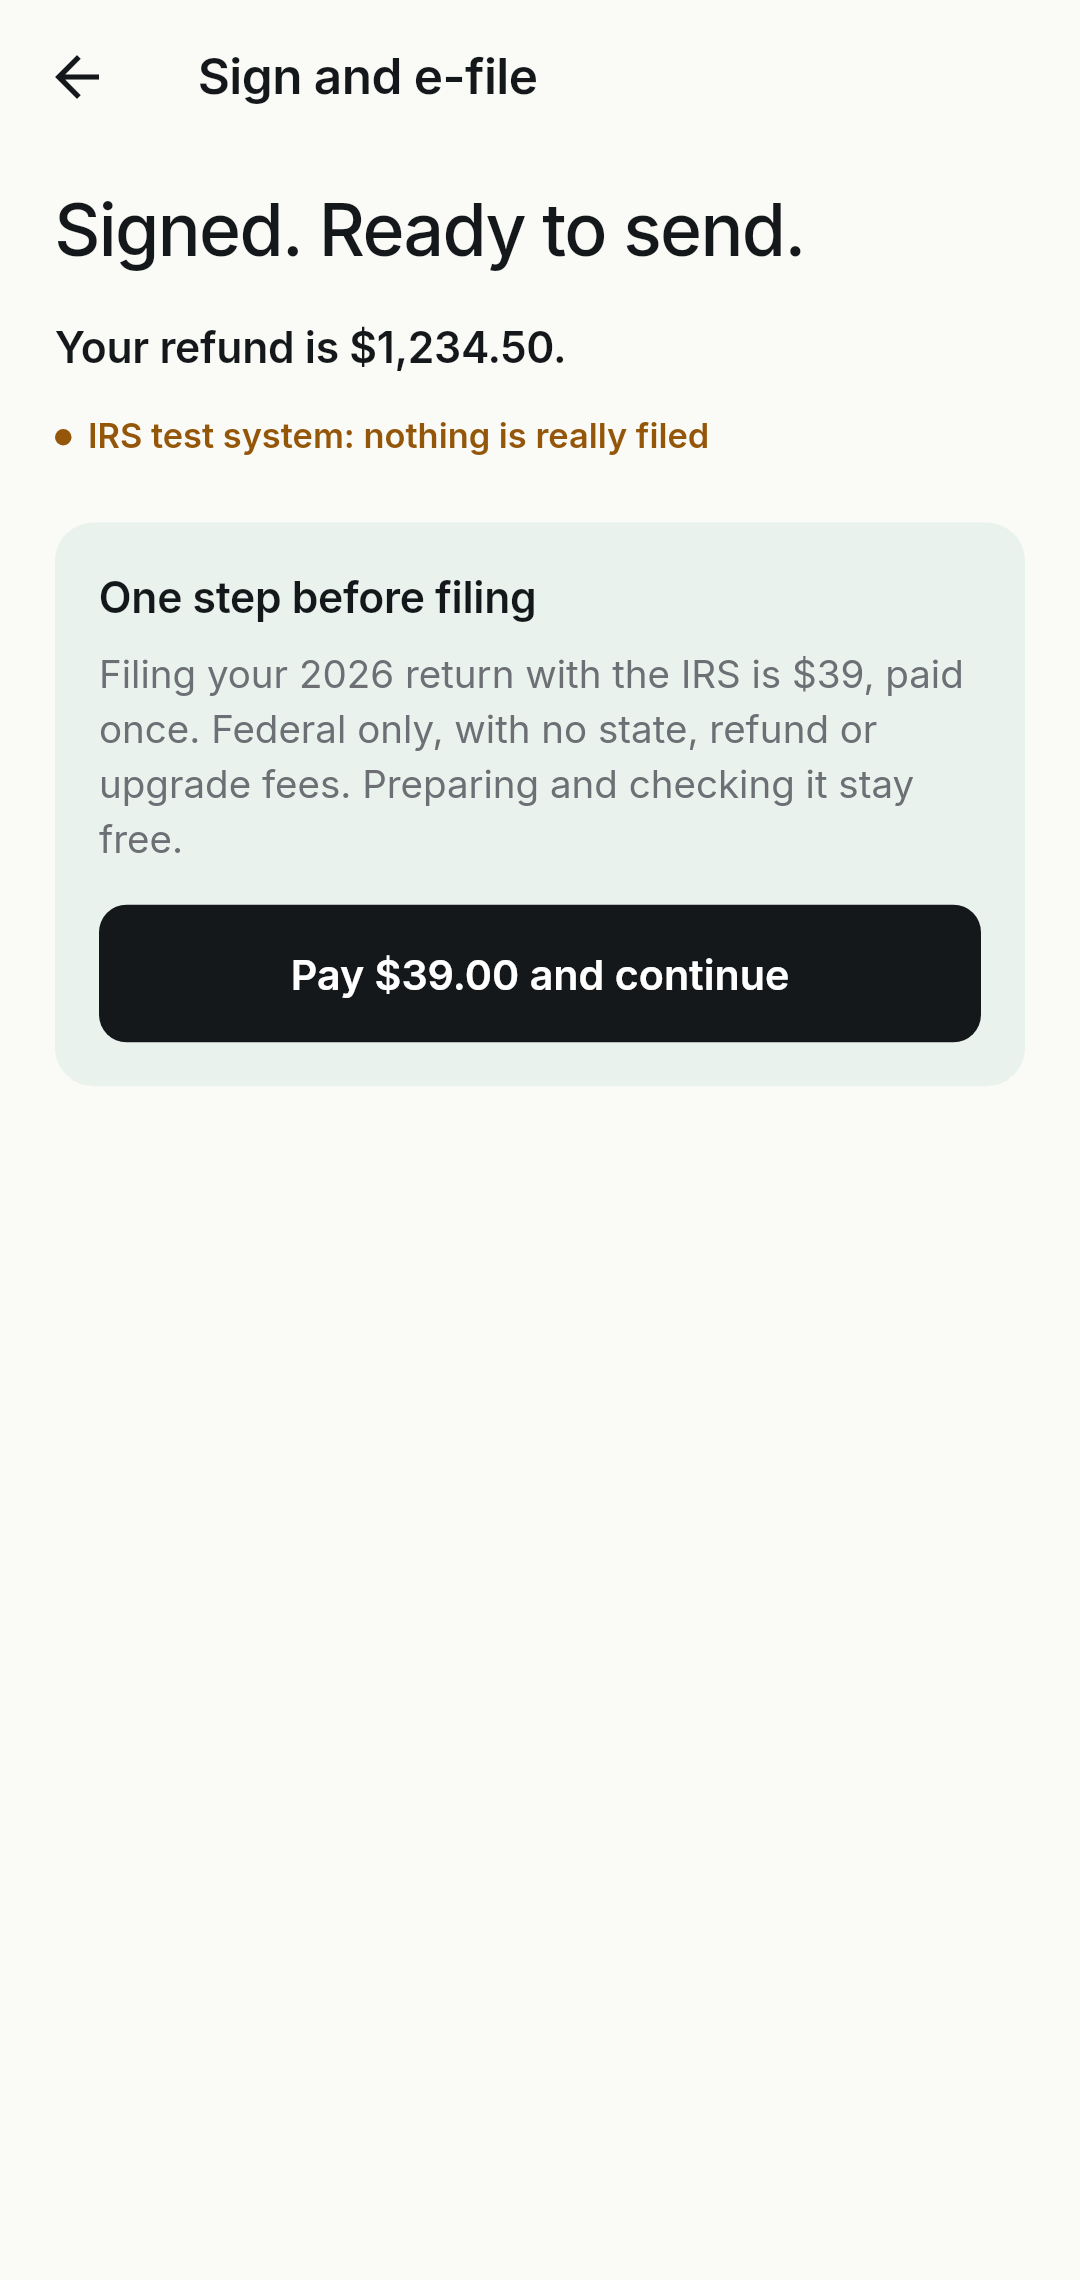
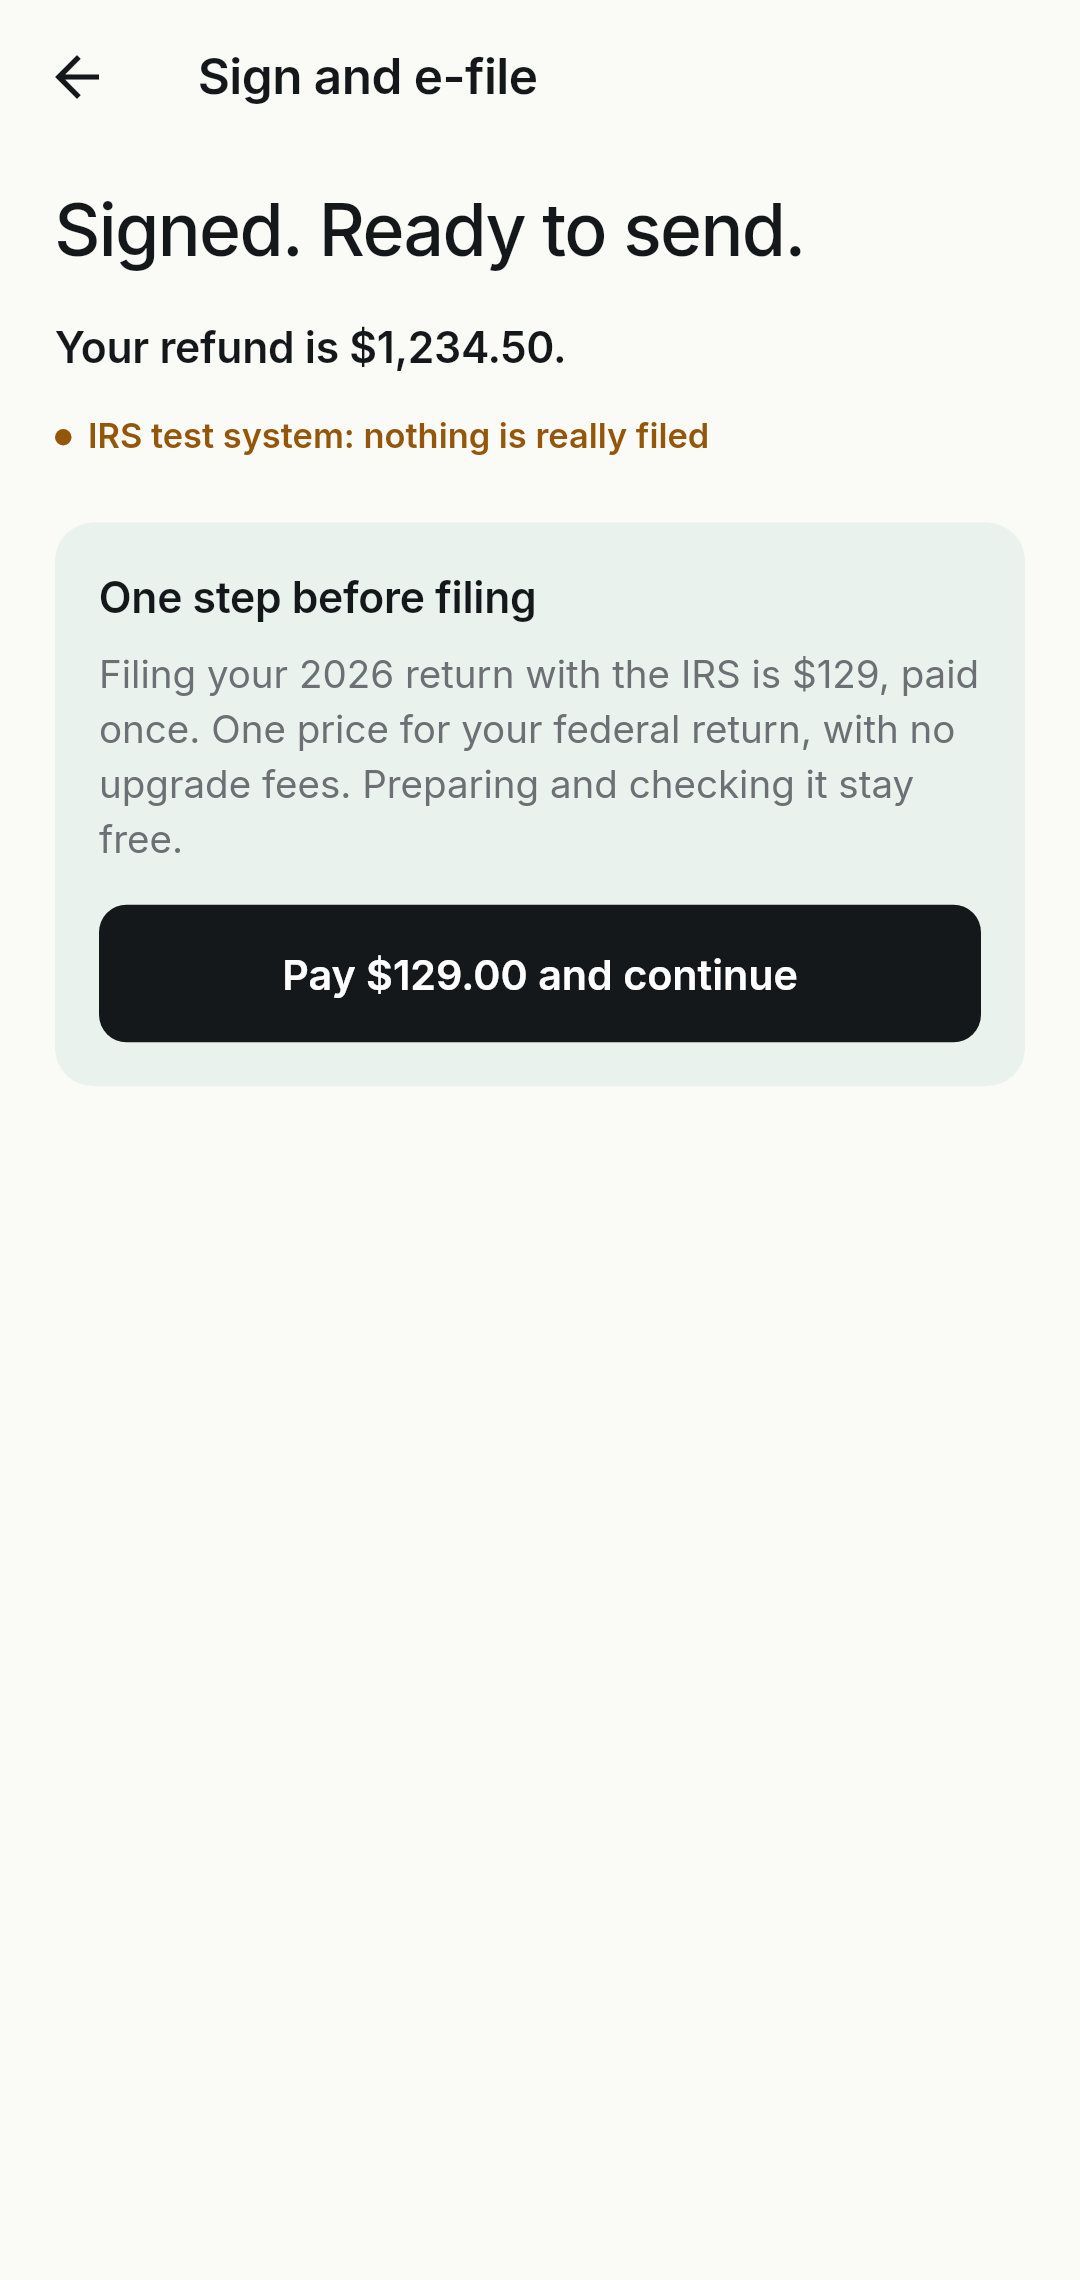
Price the US SKU as premium: $129 return, $249 a year Plus, $299 Expert Review
The owner asked for prices worth a service that beats every competitor.
The defaults now sit at or above TurboTax at each tier (Premium, Live
Assisted). Each price is still a setting. The price line drops the
state and refund wording and says one price, no upgrade fees.

Tests: cloud us-card-checkout and us-return-billing 16/16 pass;
mobile us_plus_test and us_return_test 28/28 pass; US goldens updated;
dart analyze clean on the changed files.

Claude-Session: https://claude.ai/code/session_0174TLetaQdj8mae1wPsVW7h

Changed region(s): [[0.2139, 0.2803, 0.9167, 0.3425], [0.2444, 0.4048, 0.7333, 0.436]]

diff --git a/mobile/test/us_return_test.dart b/mobile/test/us_return_test.dart
@@ -31,7 +31,7 @@ class FeeStore implements StoreBilling {
   @override
   Future<bool> available() async => true;
   @override
-  Future<Map<String, StoreProduct>> products(Set<String> ids) async => {for (final id in ids) id: StoreProduct(id: id, price: '\$39.00')};
+  Future<Map<String, StoreProduct>> products(Set<String> ids) async => {for (final id in ids) id: StoreProduct(id: id, price: '\$129.00')};
   @override
   Future<bool> buy(String productId, String accountId) async {
     bought.add('sub:$productId:$accountId');
@@ -60,7 +60,7 @@ class FakeFees implements UsFilingFees {
   @override
   String get accountId => 'biz-1';
   @override
-  Future<UsFilingFee> status(int taxYear) async => UsFilingFee(taxYear: taxYear, enforced: true, paid: paid, priceUsd: 39, productId: 'myca_us_1040', checkout: card ? 'card' : 'play');
+  Future<UsFilingFee> status(int taxYear) async => UsFilingFee(taxYear: taxYear, enforced: true, paid: paid, priceUsd: 129, productId: 'myca_us_1040', checkout: card ? 'card' : 'play');
   @override
   Future<UsFilingFee> record(int taxYear, String productId, String purchaseToken) async {
     recorded.add('$taxYear:$productId:$purchaseToken');
@@ -591,7 +591,7 @@ void main() {
     expect(find.textContaining('00000020253150000001'), findsOneWidget);
   });
 
-  testWidgets('filing is held until that year\'s \$39 is paid on Google Play; then the file button appears', (tester) async {
+  testWidgets('filing is held until that year\'s \$129 is paid on Google Play; then the file button appears', (tester) async {
     final api = UsFakeApi()..taxpayer = {'filingStatus': 'single'};
     api.forms.add({'id': 'F1', 'kind': 'W-2', 'payer': 'Acme', 'amounts': {'wages': 52000}});
     api.efile = 'signed';
@@ -603,7 +603,7 @@ void main() {
     tester.state<NavigatorState>(find.byType(Navigator).first).push(MaterialPageRoute<void>(builder: (_) => UsSignScreen(taxYear: year, fees: fees, store: store)));
     await tester.pumpAndSettle();
     expect(find.byKey(const Key('usFee.card')), findsOneWidget);
-    expect(find.textContaining('is \$39, paid once'), findsOneWidget);
+    expect(find.textContaining('is \$129, paid once'), findsOneWidget);
     expect(find.byKey(const Key('usSign.prepare')), findsNothing, reason: 'no filing before the fee');
     await tester.tap(find.byKey(const Key('usFee.pay')));
     await tester.pumpAndSettle();
@@ -622,10 +622,10 @@ void main() {
   });
 
   test('the filing fee reads from the server and is never due when billing is off', () {
-    final due = UsFilingFee.fromJson({'taxYear': 2025, 'enforced': true, 'paid': false, 'priceUsd': 39, 'productId': 'myca_us_1040'}, 2025);
+    final due = UsFilingFee.fromJson({'taxYear': 2025, 'enforced': true, 'paid': false, 'priceUsd': 129, 'productId': 'myca_us_1040'}, 2025);
     expect(due.due, isTrue);
-    expect(usFilingFeeLine(due), 'Filing your 2025 return with the IRS is \$39, paid once. Federal only, with no state, refund or upgrade fees. Preparing and checking it stay free.');
-    expect(due.line, '\$39 to file. Federal only. No state, refund or upgrade fees.');
+    expect(usFilingFeeLine(due), 'Filing your 2025 return with the IRS is \$129, paid once. One price for your federal return, with no upgrade fees. Preparing and checking it stay free.');
+    expect(due.line, '\$129 to file your federal return. One price, no upgrade fees.');
     expect(UsFilingFee.fromJson({'checkout': 'card'}, 2025).byCard, isTrue);
     expect(UsFilingFee.fromJson({'enforced': false, 'paid': true}, 2025).due, isFalse);
     expect(UsFilingFee.fromJson({'enforced': true, 'paid': true}, 2025).due, isFalse);

diff --git a/mobile/test/us_plus_test.dart b/mobile/test/us_plus_test.dart
@@ -44,7 +44,7 @@ class FakePlus implements UsPlusService {
         subscribed: subscribed,
         renews: subscribed && renews,
         until: '2027-11-11T00:00:00.000Z',
-        priceUsd: 79,
+        priceUsd: 249,
         buyable: true,
         checkout: onPlay ? 'play' : 'card',
         productId: onPlay ? 'myca_us_plus_yearly' : '',
@@ -80,11 +80,11 @@ Future<void> openOver(WidgetTester tester, Widget screen) async {
 }
 
 void main() {
-  testWidgets('the hub shows the \$39 price line before About you, and the state sheet only for states with income tax', (tester) async {
+  testWidgets('the hub shows the \$129 price line before About you, and the state sheet only for states with income tax', (tester) async {
     final api = UsFakeApi()..taxpayer = {'filingStatus': 'single', 'address': {'state': 'TX'}};
     await tester.pumpWidget(MycaApp(state: usState(api)));
     await tester.pumpAndSettle();
-    expect(find.text('\$39 to file. Federal only. No state, refund or upgrade fees.'), findsOneWidget);
+    expect(find.text('\$129 to file your federal return. One price, no upgrade fees.'), findsOneWidget);
     final priceY = tester.getTopLeft(find.byKey(const Key('usHub.priceLine'))).dy;
     expect(priceY, lessThan(tester.getTopLeft(find.byKey(const Key('usHub.step.profile'))).dy), reason: 'the price comes before the first question');
     expect(find.byKey(const Key('usHub.state')), findsNothing, reason: 'Texas has no income tax, so nothing more is said');
@@ -118,7 +118,7 @@ void main() {
     expect(find.byKey(const Key('usFee.payCard')), findsNothing, reason: 'no payment for a return MyCA cannot file');
   });
 
-  testWidgets('the \$39 is paid by card in the browser, then confirmed before the file button appears', (tester) async {
+  testWidgets('the \$129 is paid by card in the browser, then confirmed before the file button appears', (tester) async {
     final api = UsFakeApi()..taxpayer = {'filingStatus': 'single'};
     api.forms.add({'id': 'F1', 'kind': 'W-2', 'payer': 'Acme', 'amounts': {'wages': 52000}});
     api.efile = 'signed';
@@ -142,14 +142,14 @@ void main() {
     expect(find.byKey(const Key('usSign.prepare')), findsOneWidget);
   });
 
-  testWidgets('MyCA Plus: tools are locked until the \$79 a year is paid, and renewal cancels in one tap', (tester) async {
+  testWidgets('MyCA Plus: tools are locked until the \$249 a year is paid, and renewal cancels in one tap', (tester) async {
     final api = UsFakeApi();
     final plus = FakePlus();
     final opened = <Uri>[];
     await tester.pumpWidget(MycaApp(state: usState(api, opened: opened)));
     await tester.pumpAndSettle();
     await openOver(tester, UsPlusScreen(taxYear: 2025, plus: plus));
-    expect(find.text('Get MyCA Plus, \$79 a year'), findsOneWidget);
+    expect(find.text('Get MyCA Plus, \$249 a year'), findsOneWidget);
     expect(tester.widget<RowCard>(find.byKey(const Key('usPlus.letter'))).onTap, isNull);
     await tester.tap(find.byKey(const Key('usPlus.subscribe')));
     await tester.pumpAndSettle();

diff --git a/mobile/lib/us/us_filing_fee.dart b/mobile/lib/us/us_filing_fee.dart
@@ -35,9 +35,9 @@ class UsFilingFee {
   String get line => priceLine.isEmpty ? usPriceLine(priceUsd) : priceLine;
 }
 
-const usFilingPriceUsd = 39;
+const usFilingPriceUsd = 129;
 
-String usPriceLine(int priceUsd) => '\$$priceUsd to file. Federal only. No state, refund or upgrade fees.';
+String usPriceLine(int priceUsd) => '\$$priceUsd to file your federal return. One price, no upgrade fees.';
 
 class UsCardCheckout {
   const UsCardCheckout({required this.url, required this.sessionId});
@@ -98,7 +98,7 @@ class NoFilingFees implements UsFilingFees {
   Future<UsFilingFee> confirmCard(int taxYear, String sessionId) => status(taxYear);
 }
 
-String usFilingFeeLine(UsFilingFee fee) => 'Filing your ${fee.taxYear} return with the IRS is \$${fee.priceUsd}, paid once. Federal only, with no state, refund or upgrade fees. Preparing and checking it stay free.';
+String usFilingFeeLine(UsFilingFee fee) => 'Filing your ${fee.taxYear} return with the IRS is \$${fee.priceUsd}, paid once. One price for your federal return, with no upgrade fees. Preparing and checking it stay free.';
 
 class UsFilingFeeCard extends StatefulWidget {
   const UsFilingFeeCard({super.key, required this.fee, required this.fees, required this.store, required this.onPaid});

diff --git a/mobile/lib/screens/us/us_return_home_screen.dart b/mobile/lib/screens/us/us_return_home_screen.dart
@@ -84,7 +84,7 @@ class _UsReturnHomeScreenState extends State<UsReturnHomeScreen> {
         children: [
           Icon(paid ? Icons.check_circle : Icons.sell_outlined, size: 18, color: Palette.accent),
           const SizedBox(width: 8),
-          Expanded(child: Text(paid ? 'Your ${fee.taxYear} filing is paid. Federal only. No state, refund or upgrade fees.' : line, key: const Key('usHub.priceLine'), style: text.bodyMedium?.copyWith(color: Palette.ink))),
+          Expanded(child: Text(paid ? 'Your ${fee.taxYear} filing is paid. One price, no upgrade fees.' : line, key: const Key('usHub.priceLine'), style: text.bodyMedium?.copyWith(color: Palette.ink))),
         ],
       ),
     );

diff --git a/mobile/lib/us/us_plus.dart b/mobile/lib/us/us_plus.dart
@@ -5,8 +5,8 @@ Map<String, dynamic> _map(Object? value) => value is Map ? value.cast<String, dy
 
 int _int(Object? value, int fallback) => value is num ? value.toInt() : int.tryParse('${value ?? ''}') ?? fallback;
 
-const usPlusPriceUsd = 79;
-const usExpertReviewPriceUsd = 129;
+const usPlusPriceUsd = 249;
+const usExpertReviewPriceUsd = 299;
 
 class UsPlusStatus {
   const UsPlusStatus({required this.enforced, required this.active, required this.subscribed, required this.renews, required this.until, required this.priceUsd, required this.buyable, this.checkout = 'card', this.productId = '', this.manageUrl = ''});

diff --git a/cloud/README.md b/cloud/README.md
@@ -329,15 +329,15 @@ The server logs one `startup: services` line listing which optional services are
 | `MYCA_INBOUND_EMAIL_DOMAIN`, `MYCA_INBOUND_RELAY_TOKEN` | for bills by email | | token yes | Inbound email relay. |
 | `MYCA_PLAY_PACKAGE`, `MYCA_PLAY_PRODUCT_ESSENTIALS`, `MYCA_PLAY_PRODUCT_PRO`, `MYCA_PLAY_PRODUCT_FIRM` | for Play billing | | no | Turns subscriptions on. |
 | `MYCA_PLAY_PACKAGE_US` | for US filing fees | `MYCA_PLAY_PACKAGE` | no | Package name of the separate MyCA US app (`com.mldynamic.myca.us`); US payments are checked against it. |
-| `MYCA_STRIPE_SECRET_KEY` | for card checkout | unset | yes | Stripe secret key of the US company. With the three settings below it, US returns ($39) and MyCA Plus ($79 a year) are paid by card instead of Google Play (Play exempts tax filing from Play Billing). |
+| `MYCA_STRIPE_SECRET_KEY` | for card checkout | unset | yes | Stripe secret key of the US company. With the three settings below it, US returns ($129) and MyCA Plus ($249 a year) are paid by card instead of Google Play (Play exempts tax filing from Play Billing). |
 | `MYCA_STRIPE_WEBHOOK_SECRET` | for card checkout | unset | yes | Signing secret of the Stripe webhook pointed at `POST /v1/billing/stripe/webhook` (events: `checkout.session.completed`, `checkout.session.async_payment_succeeded`, `customer.subscription.updated`, `customer.subscription.deleted`). |
 | `MYCA_US_CHECKOUT_RETURN_URL` | for card checkout | unset | no | https page Stripe returns to; it should open the MyCA US app. |
 | `MYCA_STRIPE_PRICE_US_PLUS` | for MyCA Plus | unset | no | Stripe price id of the yearly Plus subscription. |
-| `MYCA_PLAY_PRODUCT_US_PLUS` | for MyCA Plus in the app | unset | no | Play yearly subscription for MyCA Plus in the MyCA US app. When set, the app sells Plus through Play (card checkout for Plus is then off), since Play's payments policy may count Plus as a software subscription. The $39 return stays on card. |
-| `MYCA_US_PLUS_PRICE_USD` | no | `79` | no | Price shown for MyCA Plus. |
-| `MYCA_US_EXPERT_REVIEW` | no | `0` | no | `1` offers Expert Review ($129, `MYCA_US_EXPERT_REVIEW_PRICE_USD`). Keep it off until a US CPA or EA partner is signed. |
+| `MYCA_PLAY_PRODUCT_US_PLUS` | for MyCA Plus in the app | unset | no | Play yearly subscription for MyCA Plus in the MyCA US app. When set, the app sells Plus through Play (card checkout for Plus is then off), since Play's payments policy may count Plus as a software subscription. The $129 return stays on card. |
+| `MYCA_US_PLUS_PRICE_USD` | no | `249` | no | Price shown for MyCA Plus. |
+| `MYCA_US_EXPERT_REVIEW` | no | `0` | no | `1` offers Expert Review ($299, `MYCA_US_EXPERT_REVIEW_PRICE_USD`). Keep it off until a US CPA or EA partner is signed. |
 | `MYCA_PLAY_PRODUCT_US_1040` | for US filing fees | | no | A one-time (consumable) Play product. When set, filing a US return (`file_us_return`) needs that tax year paid; preparing stays free. |
-| `MYCA_US_RETURN_PRICE_USD` | | `39` | no | The US filing fee shown before the Play Store price loads. |
+| `MYCA_US_RETURN_PRICE_USD` | | `129` | no | The US filing fee shown before the Play Store price loads. |
 | `MYCA_PLAY_SERVICE_ACCOUNT_JSON` | Play billing outside Cloud Run | metadata server on Cloud Run | yes | Play Developer API access. Refused in staging. |
 | `MYCA_PLAY_PUSH_AUDIENCE`, `MYCA_PLAY_PUSH_SERVICE_ACCOUNT` | for Play notifications | | no | Pub/Sub push with OIDC authentication: the audience set on the push subscription and the service account it signs as. Preferred. |
 | `MYCA_PLAY_NOTIFY_TOKEN` | alternative to push auth | | yes | Shared token, sent only in the `x-myca-notify-token` header. A `?token=` in the URL is refused so it never reaches access logs. |

diff --git a/docs/compliance/us/US-LAUNCH.md b/docs/compliance/us/US-LAUNCH.md
@@ -68,7 +68,7 @@ has no switch to India. CI builds both; it uploads the US bundle when `PLAY_US_T
 - [ ] Create the `com.mldynamic.myca.us` app in Play Console. *Countries / regions*: United States only.
 - [ ] Add an Android OAuth client for `com.mldynamic.myca.us` with the Play signing SHA-1.
 - [ ] Set `MYCA_PLAY_PACKAGE_US` (Terraform `play_package_us`) so US payments are checked against the US app.
-- [ ] Create the yearly subscription for MyCA Plus (USD 79) in the US app and set `MYCA_PLAY_PRODUCT_US_PLUS`. Plus is sold through Play inside the app because Play's payments policy requires Play billing for software subscriptions; the $39 return is tax filing and stays on card.
+- [ ] Create the yearly subscription for MyCA Plus (USD 249) in the US app and set `MYCA_PLAY_PRODUCT_US_PLUS`. Plus is sold through Play inside the app because Play's payments policy requires Play billing for software subscriptions; the $129 return is tax filing and stays on card.
 - [ ] *Data safety*: add Government ID (SSN/ITIN), financial info (bank account), and say it is
       encrypted in transit and at rest and can be deleted on request.
 - [ ] *Financial features* declaration: the app prepares and files tax returns.
@@ -83,16 +83,16 @@ has no switch to India. CI builds both; it uploads the US bundle when `PLAY_US_T
 
 ## US pricing
 
-Owner decision (2026-11-11): **$39 per federal return, paid once per tax year.** Preparing, reviewing
+Owner direction (2026-11-11): price as premium, at or above TurboTax at each tier. **$129 per federal return, paid once per tax year;** MyCA Plus $249 a year; Expert Review $299 once a CPA or EA partner is signed. All three are settings (`MYCA_US_RETURN_PRICE_USD`, `MYCA_US_PLUS_PRICE_USD`, `MYCA_US_EXPERT_REVIEW_PRICE_USD`). Preparing, reviewing
 and downloading the return are free, so people see their refund first; filing with the IRS unlocks once
 that year is paid. Households never fall into the India trial or read-only plan.
 
 How it works:
 
-- One consumable Play product, for example `myca_us_1040`, priced USD 39. Set it as
+- One consumable Play product, for example `myca_us_1040`, priced USD 129. Set it as
   `MYCA_PLAY_PRODUCT_US_1040` (Terraform `play_product_us_1040`). Consumable, so the same product is bought
   again next year; each payment is recorded against one tax year (`us_return_purchases`, migration 022).
-- The app's Sign and e-file screen shows "Pay $39 and continue" after signing. The server checks the
+- The app's Sign and e-file screen shows "Pay $129 and continue" after signing. The server checks the
   payment with Google (`purchases.products`), acknowledges it, records it, and writes the
   `billing.us_return_paid` audit event. A payment token can pay for only one return and one year.
 - `file_us_return` is refused with `US_RETURN_UNPAID` until that year is paid, whether it comes from the
